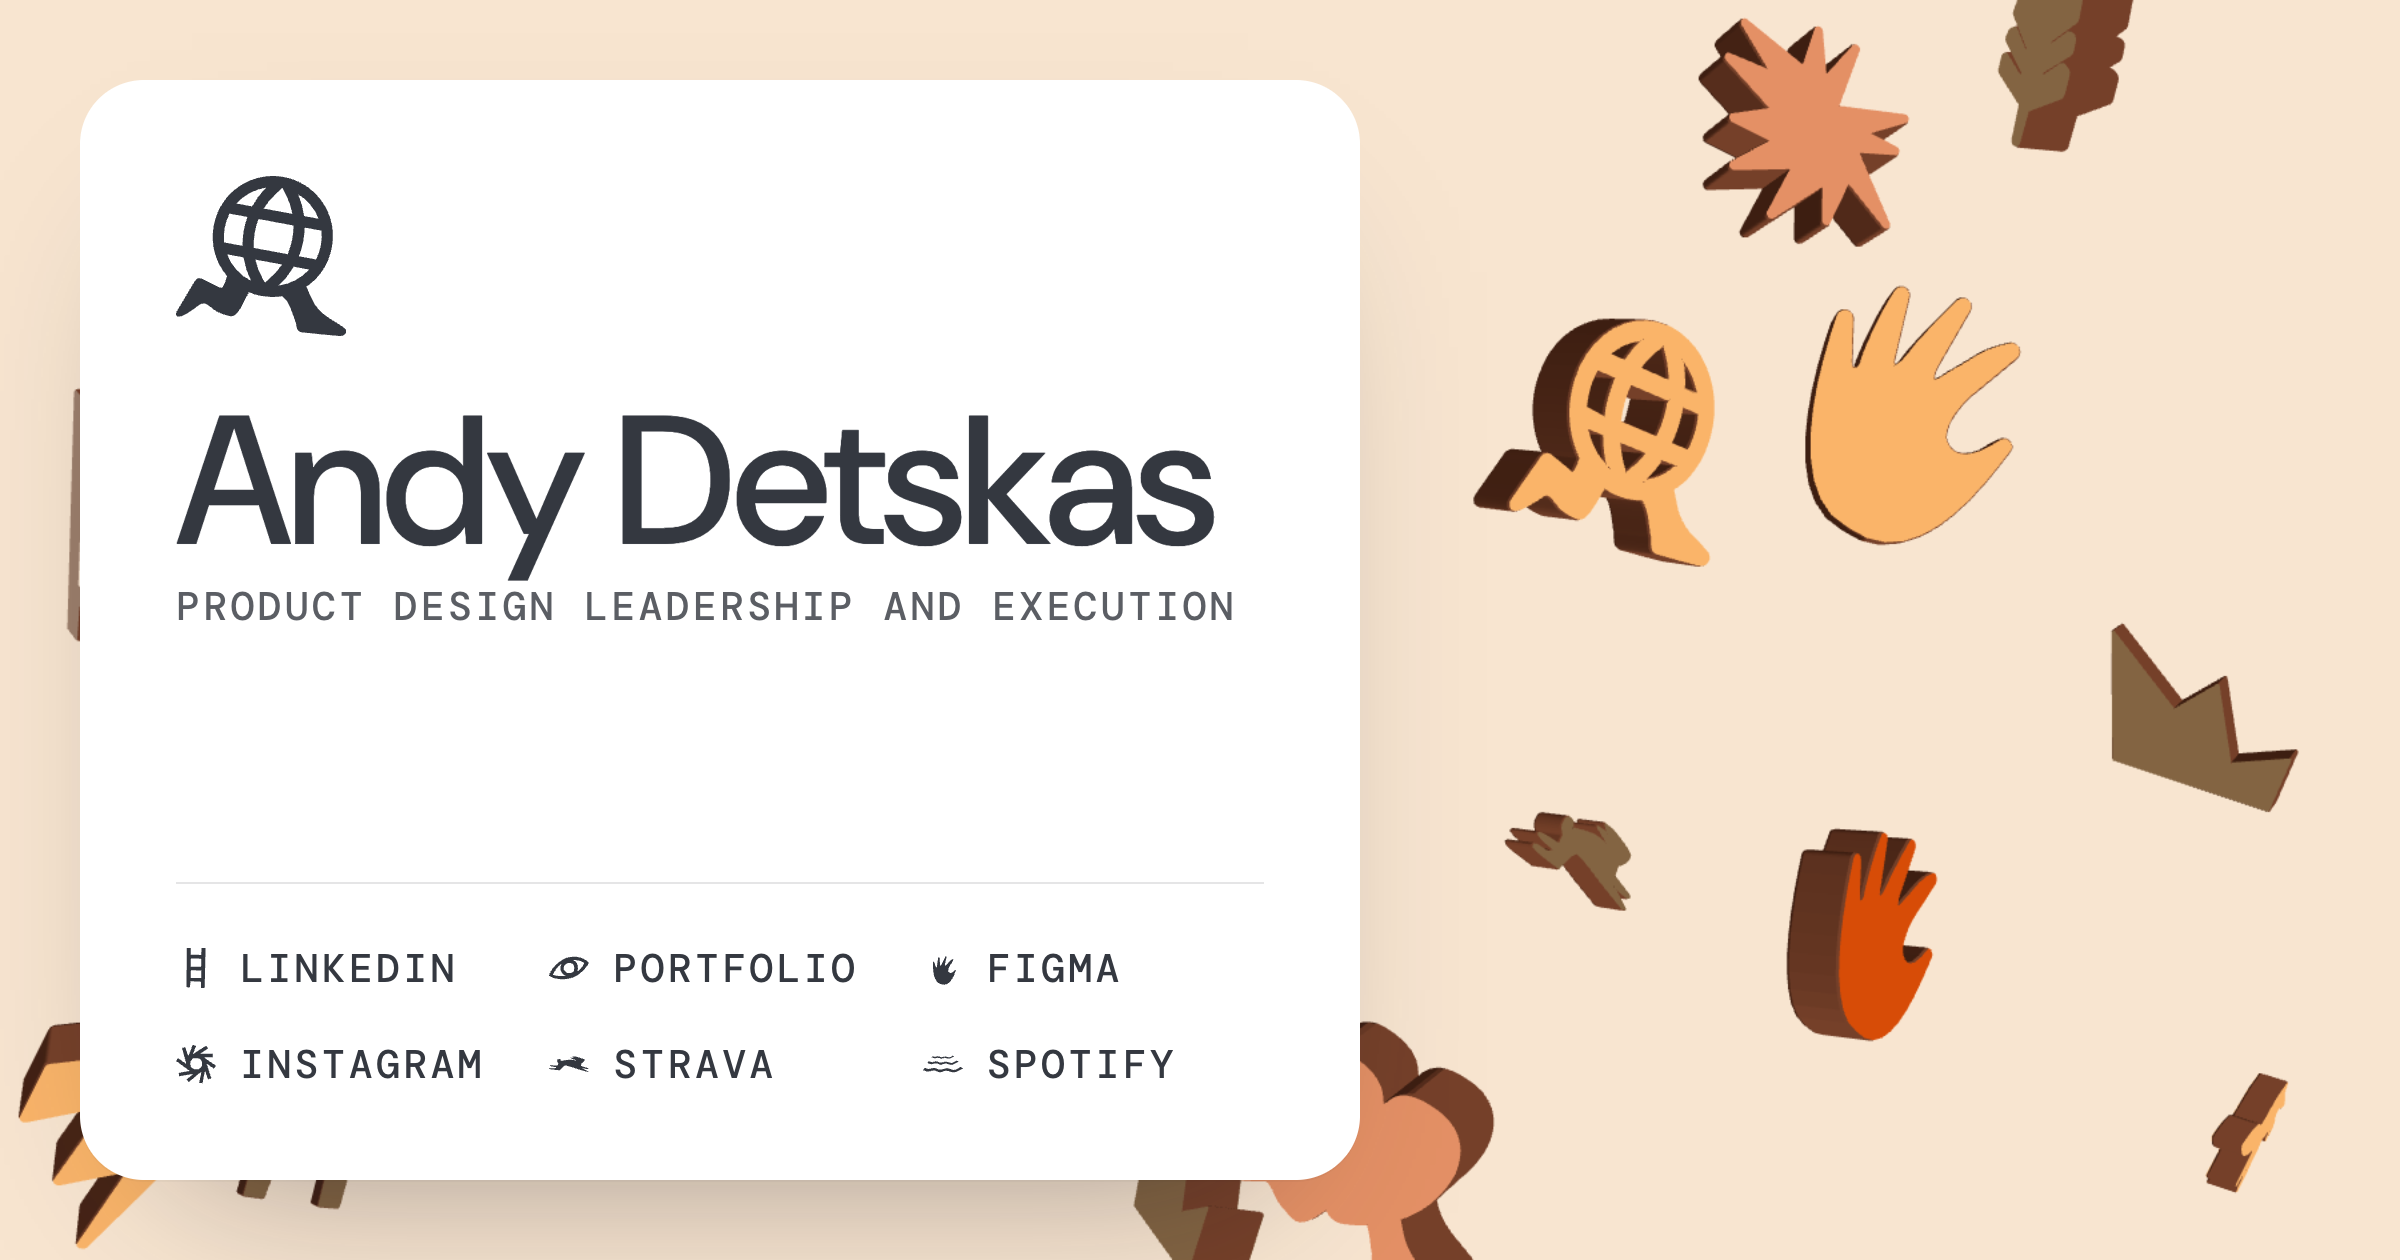
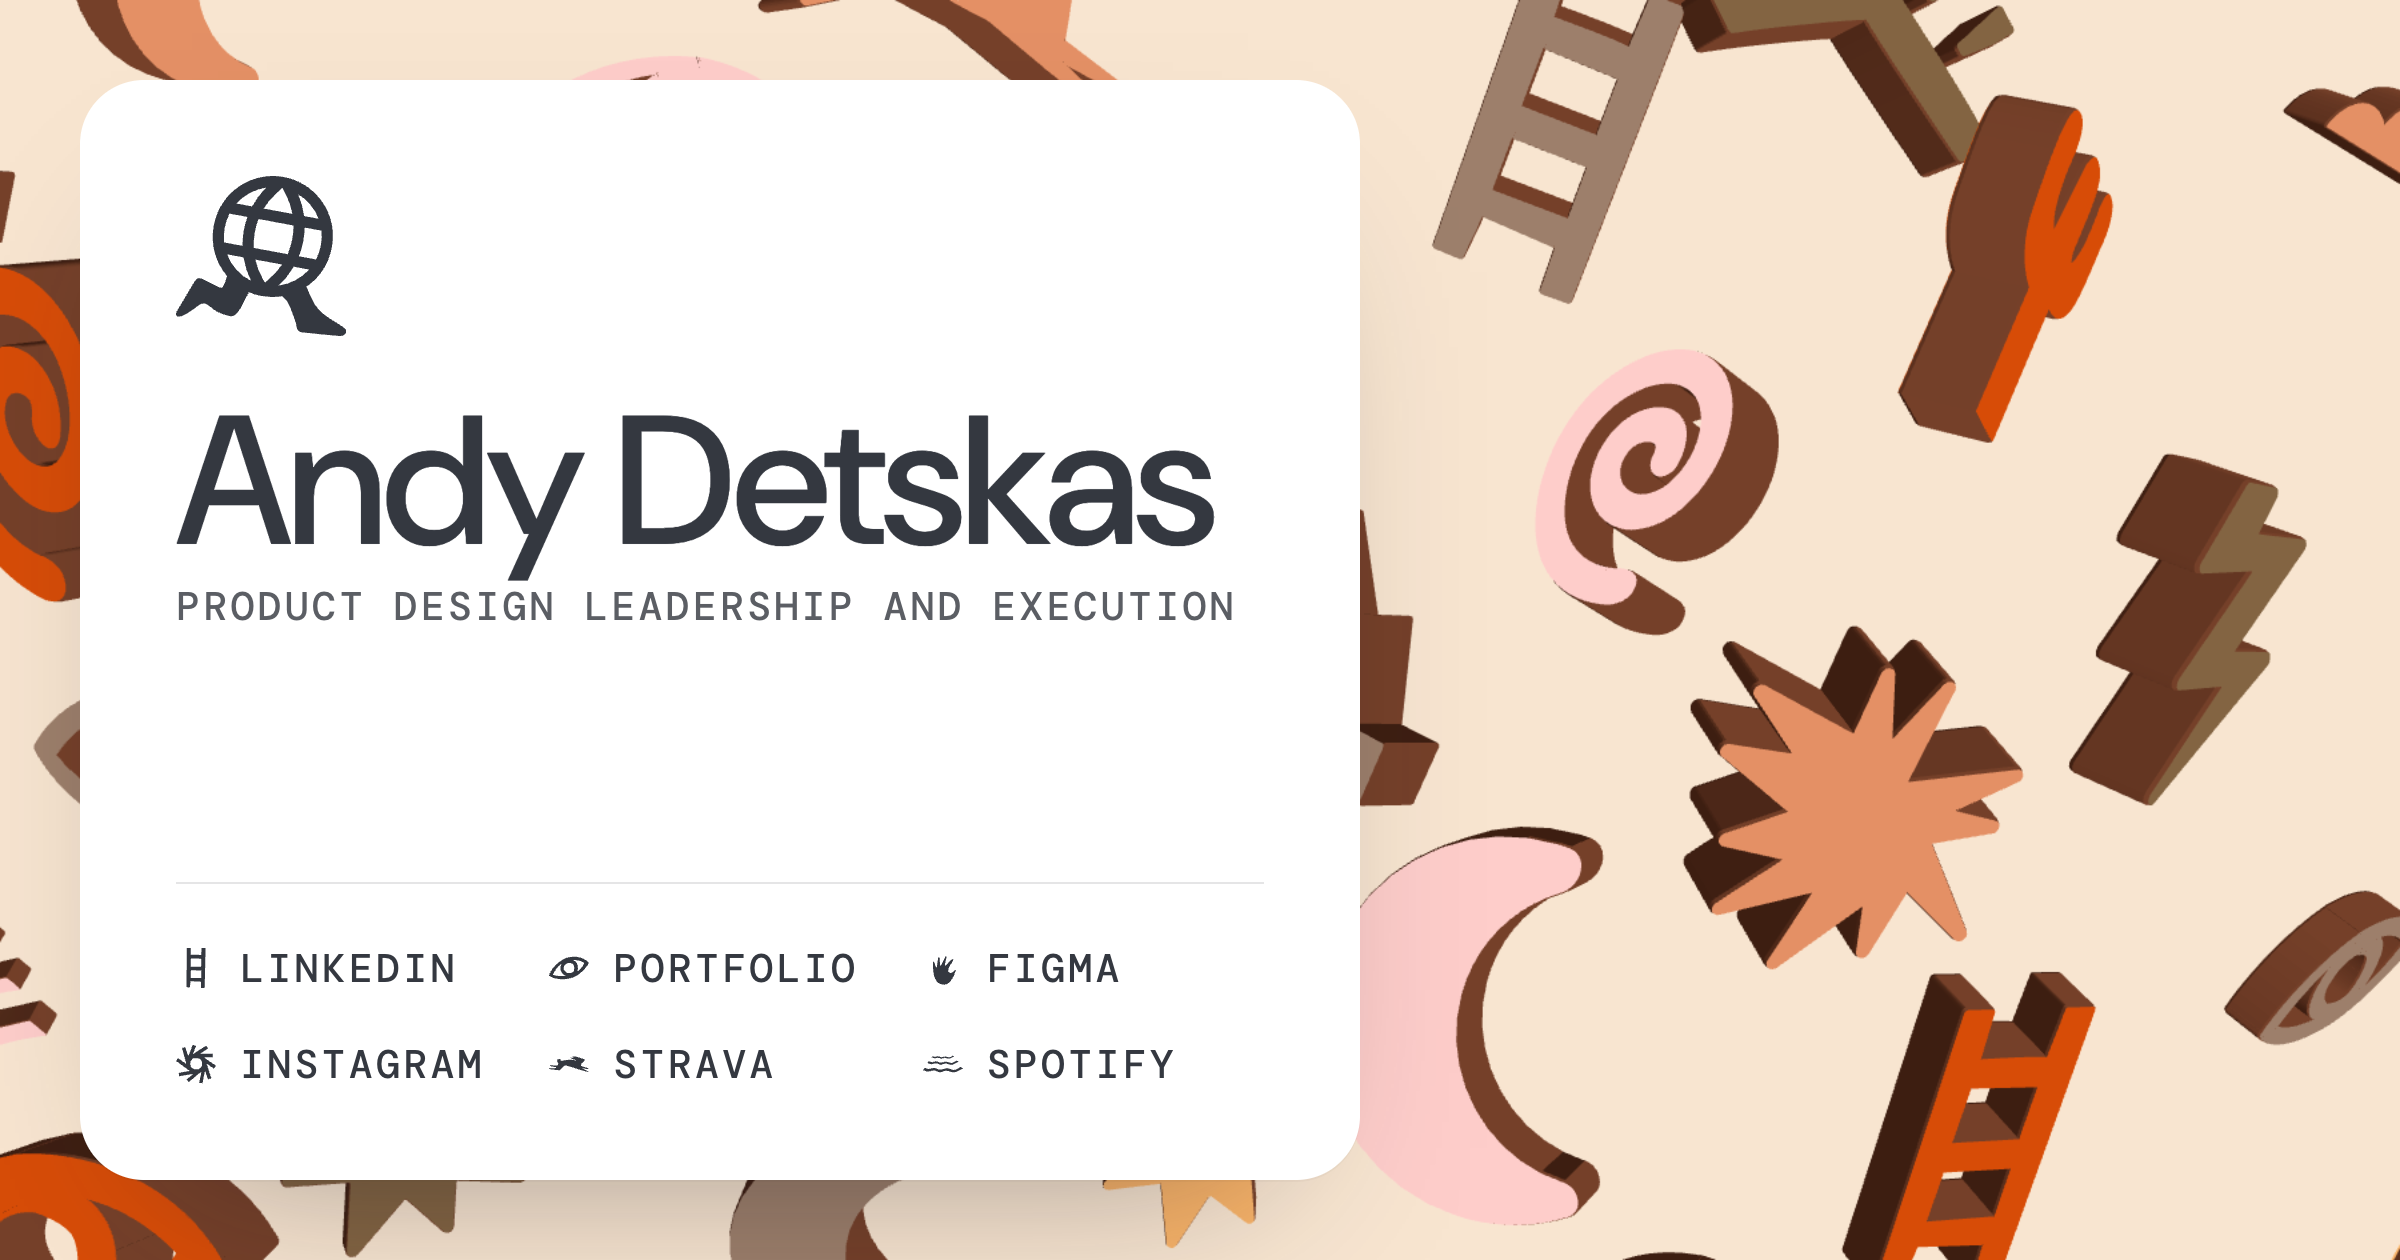
Glyph layouts, hole-winding fix, checker default
- Glyphs: Scatter / Grid / Checker layouts. Grid and checker sit on an
  even lattice that drifts as one sheet, so spacing never bunches;
  neighbours avoid repeating an icon or face color; Jitter loosens it.
  Scatter keeps its exact random sequence.
- Lab: Layout control and Jitter slider; count label per layout.
  Index: ?layout= preview param.
- Fix: holes drawn in the same direction as their outline (ladder's
  lower gap, sun's center) got inside-out walls and looked flat.
  Shapes are now reoriented before extrusion.
- Default preset: Andy's checker setup; share image recaptured.

diff --git a/src/lib/shape-field/families/glyphs.ts b/src/lib/shape-field/families/glyphs.ts
@@ -4,7 +4,7 @@
 import * as THREE from 'three';
 import { SVGLoader } from 'three/addons/loaders/SVGLoader.js';
 import { iconNames, icons } from '../../icons';
-import { TRUE_BLACK_80, type ScenePalette, type SceneParams } from '../../presets';
+import { glyphCount, TRUE_BLACK_80, type GlyphLayout, type ScenePalette, type SceneParams } from '../../presets';
 import { Facet, type FacetColors } from '../facet';
 import type { Family } from '../types';
 import { lerp, settle, shade, TAU } from '../util';
@@ -16,20 +16,35 @@ const SLOTS = 840; // divisible by 1–8, so slot % colors.length stays evenly s
 
 export const GLYPH_NAMES = iconNames;
 
+const CURVE_SEGMENTS = 10;
+
+/**
+ * Winding fix. ExtrudeGeometry wants the outline clockwise and holes counter-clockwise, but it
+ * only corrects a hole's direction when it also has to flip the outline. A hole drawn in the
+ * same direction as its outline (the ladder's lower gap, the sun's center) got inside-out walls,
+ * which are culled, so the hole looked flat. Rebuild every shape with the directions it expects.
+ */
+function orient(shape: THREE.Shape): THREE.Shape {
+  const { shape: outline, holes } = shape.extractPoints(CURVE_SEGMENTS);
+  const out = new THREE.Shape(THREE.ShapeUtils.isClockWise(outline) ? outline : outline.reverse());
+  out.holes = holes.map((h) => new THREE.Path(THREE.ShapeUtils.isClockWise(h) ? h.reverse() : h));
+  return out;
+}
+
 const geoCache = new Map<string, THREE.BufferGeometry>();
 function glyphGeometry(name: string, depth: number): THREE.BufferGeometry {
   const key = `${name}@${depth.toFixed(2)}`;
   const hit = geoCache.get(key);
   if (hit) return hit;
   const data = new SVGLoader().parse(icons[name]);
-  const shapes = data.paths.flatMap((p) => SVGLoader.createShapes(p));
+  const shapes = data.paths.flatMap((p) => SVGLoader.createShapes(p)).map(orient);
   const geo = new THREE.ExtrudeGeometry(shapes, {
     depth: 150 * depth,
     bevelEnabled: true,
     bevelThickness: 18,
     bevelSize: 12,
     bevelSegments: 2,
-    curveSegments: 10,
+    curveSegments: CURVE_SEGMENTS,
   });
   geo.scale(1, -1, -1); // SVG y points down; flip y and z together (a rotation, not a mirror)
   geo.computeBoundingBox();
@@ -48,15 +63,40 @@ const facetColors = (p: ScenePalette, i: number, contrast: number): FacetColors 
   return { top: p.colors[i % p.colors.length], lit: side, shade: shade(side, -contrast) };
 };
 
+/**
+ * Even spacing for the grid and checker layouts, at the same visual density as the scatter
+ * (the same area per glyph). Checker fills alternate squares: rows are half as far apart as
+ * columns, and every other row shifts by half a column.
+ * The sheet is taller than the view so it can drift up and wrap without a visible seam.
+ */
+function lattice(layout: Exclude<GlyphLayout, 'scatter'>, count: number) {
+  const area = (2 * W * (2 * H + 2)) / count;
+  const sy = layout === 'checker' ? Math.sqrt(area / 2) : Math.sqrt(area);
+  const sx = layout === 'checker' ? 2 * sy : sy;
+  const cols = Math.ceil((2 * W) / sx) + 1;
+  let rows = Math.ceil((2 * (H + 1.2)) / sy);
+  if (layout === 'checker' && rows % 2) rows++; // keeps the row pattern intact across the wrap
+  return { sx, sy, cols, rows };
+}
+
+/** Re-roll a random pick (a few tries) when it matches a neighbour. */
+function distinct<T>(roll: () => T, clash: (v: T) => boolean): T {
+  let v = roll();
+  for (let i = 0; i < 6 && clash(v); i++) v = roll();
+  return v;
+}
+
 export const glyphs: Family = {
   id: 'glyphs',
   camera: { type: 'persp', az: 90, el: 4, fov: 28 },
   build({ params, palette, rng, shared, glyphs: allowed }) {
     const names = allowed?.length ? allowed.filter((n) => n in icons) : GLYPH_NAMES;
     const pool = names.length ? names : GLYPH_NAMES;
-    const count = Math.round(lerp(14, 48, params.density));
+    const layout = params.layout ?? 'scatter';
+    const count = glyphCount(params.density, layout);
     const depth = params.depth ?? 1;
     const spread = params.spread ?? 1;
+    const jitter = params.jitter ?? 0;
     let contrast = params.contrast ?? 0.35;
     let pal = palette;
 
@@ -79,28 +119,85 @@ export const glyphs: Family = {
       for (const it of items) it.mesh.material = facets[it.slot % n].material;
     };
 
-    // Jittered grid so glyphs spread evenly instead of clumping.
-    const cols = Math.max(3, Math.round(Math.sqrt((count * W) / H)));
-    const rows = Math.ceil(count / cols);
-    for (let n = 0; n < count; n++) {
-      const name = pool[Math.floor(rng() * pool.length)];
+    const place = (name: string, x: number, y: number, z: number) => {
       const mesh = new THREE.Mesh(glyphGeometry(name, depth));
-      const cx = (n % cols) + 0.5 + (rng() - 0.5) * 0.7;
-      const cy = Math.floor(n / cols) + 0.5 + (rng() - 0.5) * 0.7;
-      mesh.position.set(lerp(-W, W, cx / cols), lerp(-H - 1, H + 1, cy / rows), (rng() - 0.5) * 2.4 * spread);
+      mesh.position.set(x, y, z);
       mesh.scale.setScalar(0.001);
       root.add(mesh);
-      items.push({
-        mesh,
-        slot: Math.floor(rng() * SLOTS),
-        size: lerp(0.7, 1.25, rng()),
-        spin: (rng() - 0.5) * 0.7,
-        wob: 0.25 + rng() * 0.3,
-        phase: rng() * TAU,
-        rise: 0.1 + rng() * 0.12,
-        baseRot: (rng() - 0.5) * 0.9,
-        delay: 0.1 + rng() * 1.1,
-      });
+      return mesh;
+    };
+
+    // A glyph that drifts above `top` drops back by `span`.
+    let top = H + 1.2;
+    let span = 2 * (H + 1.2);
+
+    if (layout === 'scatter') {
+      // Jittered grid so glyphs start spread out. Each drifts at its own speed, so the field
+      // loosens over time. (Keep this random sequence as is: saved presets depend on it.)
+      const cols = Math.max(3, Math.round(Math.sqrt((count * W) / H)));
+      const rows = Math.ceil(count / cols);
+      for (let n = 0; n < count; n++) {
+        const name = pool[Math.floor(rng() * pool.length)];
+        const cx = (n % cols) + 0.5 + (rng() - 0.5) * 0.7;
+        const cy = Math.floor(n / cols) + 0.5 + (rng() - 0.5) * 0.7;
+        const mesh = place(name, lerp(-W, W, cx / cols), lerp(-H - 1, H + 1, cy / rows), (rng() - 0.5) * 2.4 * spread);
+        items.push({
+          mesh,
+          slot: Math.floor(rng() * SLOTS),
+          size: lerp(0.7, 1.25, rng()),
+          spin: (rng() - 0.5) * 0.7,
+          wob: 0.25 + rng() * 0.3,
+          phase: rng() * TAU,
+          rise: 0.1 + rng() * 0.12,
+          baseRot: (rng() - 0.5) * 0.9,
+          delay: 0.1 + rng() * 1.1,
+        });
+      }
+    } else {
+      // Grid / checker: every glyph on a lattice spot, all drifting at one speed so the spacing
+      // never bunches. Neighbours avoid sharing an icon or a face color where the pool allows.
+      const checker = layout === 'checker';
+      const { sx, sy, cols, rows } = lattice(layout, count);
+      span = rows * sy;
+      top = span / 2;
+      const nColors = Math.min(pal.colors.length, MAX_FACES);
+      const taken = new Map<string, { name: string; color: number }>();
+      const key = (c: number, r: number) => `${c},${((r % rows) + rows) % rows}`;
+      const neighbours = (c: number, r: number) => {
+        const keys = [key(c - 1, r), key(c + 1, r)];
+        for (const cc of checker ? (r % 2 ? [c, c + 1] : [c - 1, c]) : [c]) keys.push(key(cc, r - 1), key(cc, r + 1));
+        return keys.flatMap((k) => taken.get(k) ?? []);
+      };
+      const offset = jitter * 0.5 * sy;
+      for (let r = 0; r < rows; r++) {
+        for (let c = 0; c < cols; c++) {
+          const near = neighbours(c, r);
+          const name = distinct(
+            () => pool[Math.floor(rng() * pool.length)],
+            (n) => pool.length > 1 && near.some((o) => o.name === n),
+          );
+          const slot = distinct(
+            () => Math.floor(rng() * SLOTS),
+            (s) => nColors > 1 && near.some((o) => o.color === s % nColors),
+          );
+          taken.set(key(c, r), { name, color: slot % nColors });
+          const shift = checker ? (r % 2 ? sx / 4 : -sx / 4) : 0;
+          const x = (c + 0.5 - cols / 2) * sx + shift + (rng() - 0.5) * offset;
+          const y = (r + 0.5 - rows / 2) * sy + (rng() - 0.5) * offset;
+          items.push({
+            mesh: place(name, x, y, (rng() - 0.5) * 2.4 * spread),
+            slot,
+            size: lerp(0.7, 1.25, rng()),
+            spin: (rng() - 0.5) * 0.7,
+            wob: 0.25 + rng() * 0.3,
+            phase: rng() * TAU,
+            rise: 0.16,
+            baseRot: (rng() - 0.5) * 0.9,
+            // Grow in as a diagonal wave from the top left.
+            delay: 0.1 + (1.1 * (c + rows - 1 - r)) / (cols + rows - 2),
+          });
+        }
+      }
     }
     assign();
 
@@ -111,7 +208,6 @@ export const glyphs: Family = {
       },
       update(t, dt, dtReal, live: SceneParams) {
         const k = settle(dt, 3.5);
-        const span = 2 * (H + 1.2);
         const sizeMul = live.size ?? 1;
         const tumble = live.tumble ?? 1;
         for (const it of items) {
@@ -124,7 +220,7 @@ export const glyphs: Family = {
           m.rotation.x = Math.sin(t * it.wob + it.phase) * 0.35 * tumble;
           m.rotation.z = Math.sin(t * 0.13 + it.phase) * 0.12 * tumble;
           m.position.y += dt * it.rise;
-          if (m.position.y > H + 1.2) m.position.y -= span;
+          if (m.position.y > top) m.position.y -= span;
         }
         const c = live.contrast ?? 0.35;
         if (c !== contrast) {

diff --git a/src/lib/presets.ts b/src/lib/presets.ts
@@ -42,7 +42,26 @@ export interface SceneParams {
   tumble?: number;
   /** 0–1. Shade difference between the lit and shaded side walls. */
   contrast?: number;
+  /**
+   * Glyph arrangement. Rebuilds.
+   * scatter: loose, each glyph drifts at its own speed (the field loosens over time).
+   * grid: even rows and columns. checker: alternate squares, so neighbours sit on the diagonals.
+   * Grid and checker drift as one sheet, so the spacing stays even.
+   */
+  layout?: GlyphLayout;
+  /** 0–1. Grid and checker only: random offset from each glyph's spot (up to half a row). Rebuilds. */
+  jitter?: number;
 }
+
+export type GlyphLayout = 'scatter' | 'grid' | 'checker';
+
+/**
+ * How many glyphs a density (0–1) means: the count over the whole field, about a third of
+ * which is on screen. Grid and checker go about twice as dense, since even spacing has no
+ * clumps to fill the view.
+ */
+export const glyphCount = (density: number, layout: GlyphLayout = 'scatter') =>
+  Math.round(14 + ((layout === 'scatter' ? 48 : 96) - 14) * density);
 
 export interface CardStyle {
   mode: Mode;
@@ -85,6 +104,8 @@ export const GLYPH_DEFAULTS: SceneParams = {
   spread: 1,
   tumble: 1,
   contrast: 0.35,
+  layout: 'scatter',
+  jitter: 0,
 };
 
 export const presets: Preset[] = [
@@ -158,7 +179,8 @@ export const presets: Preset[] = [
     sceneAccent: false,
   },
   // ── Glyphs: extruded Taos icons. colors = face colors (any number), extrusion = side walls
-  // Andy's pick (2026-11-05): Adobe palette, dense field, deep extrusion, shallow depth spread.
+  // Andy's pick (2026-11-05, second round): Adobe palette, loose checker layout, larger glyphs,
+  // no depth spread, 15 of the 21 icons.
   {
     id: 'glyphs-color',
     name: 'Glyphs · Adobe',
@@ -171,21 +193,40 @@ export const presets: Preset[] = [
       colors: ['#E49065', '#D74C07', '#9D7F6B', '#836442', '#FECDCA', '#FAB469'],
     },
     params: {
-      density: 1,
-      tilt: 12,
+      density: 0.63,
+      tilt: 20,
       light: 40,
       speed: 1,
-      scale: 1.25,
+      scale: 1.34,
       seed: 5,
       tint: 0.85,
-      size: 1,
+      size: 1.44,
       depth: 1.45,
-      spread: 0.35,
+      spread: 0,
       tumble: 1,
       contrast: 0.74,
+      layout: 'checker',
+      jitter: 0.79,
     },
     card: { mode: 'light', radius: 32 },
     sceneAccent: true,
+    glyphs: [
+      'alpenglow',
+      'cactus',
+      'cloud',
+      'compass',
+      'crown',
+      'eye',
+      'feather',
+      'fox',
+      'hank',
+      'ladder',
+      'lightning',
+      'mirage',
+      'moon',
+      'spark',
+      'spiral',
+    ],
   },
   {
     id: 'glyphs-neutral',

diff --git a/src/lib/shape-field/index.ts b/src/lib/shape-field/index.ts
@@ -34,7 +34,7 @@ export interface ShapeFieldOptions {
   onFirstFrame?: () => void;
 }
 
-const REBUILD_KEYS: (keyof SceneParams)[] = ['density', 'seed', 'depth', 'spread'];
+const REBUILD_KEYS: (keyof SceneParams)[] = ['density', 'seed', 'depth', 'spread', 'layout', 'jitter'];
 const sameList = (a?: string[], b?: string[]) => (a ?? []).join() === (b ?? []).join();
 
 export function createShapeField(canvas: HTMLCanvasElement, initial: Preset, opts: ShapeFieldOptions = {}): ShapeField | null {

diff --git a/README.md b/README.md
@@ -9,7 +9,7 @@ npm install
 npm run dev        # http://localhost:4321  (tokens rebuild first)
 ```
 
-- `/`: the page. `/?palette=earth` previews a named Glyphs palette. `/?preset=ridgeline-color` previews any scene preset.
+- `/`: the page. `/?palette=earth` previews a named Glyphs palette. `/?layout=checker` (or `grid`, `scatter`) previews a glyph layout. `/?preset=ridgeline-color` previews any scene preset.
 - `/lab`: the customizer. Sections: Scene, Palette, Glyphs, Shape, Motion & light, Card & type.
   - Click any swatch to pick a Taos color.
   - Tweaks persist on reload. **H** hides the panel, **G** toggles the baseline grid.
@@ -38,6 +38,7 @@ Pages talk to the scene through two DOM events: `bento:accent` (hover tint) and 
 - `colors`: 1–8 face colors. Each glyph takes one at random, spread evenly.
 - `extrusion`: the side walls. The default is **True Black 80%** (Taos True Black 500, `#323131`). `contrast` darkens the shaded side.
 - Hovering a link tints every face toward that link's accent. The strength is set by `tint`.
+- `layout`: `scatter` (default; each glyph drifts at its own speed, so the field loosens and clumps over time), `grid` (even rows and columns) or `checker` (alternate squares). Grid and checker drift as one sheet, so the spacing stays even. Neighbours avoid repeating an icon or face color, and `jitter` (0–1) loosens the lattice. Count runs about twice as dense in grid and checker.
 
 ## Deploy
 
